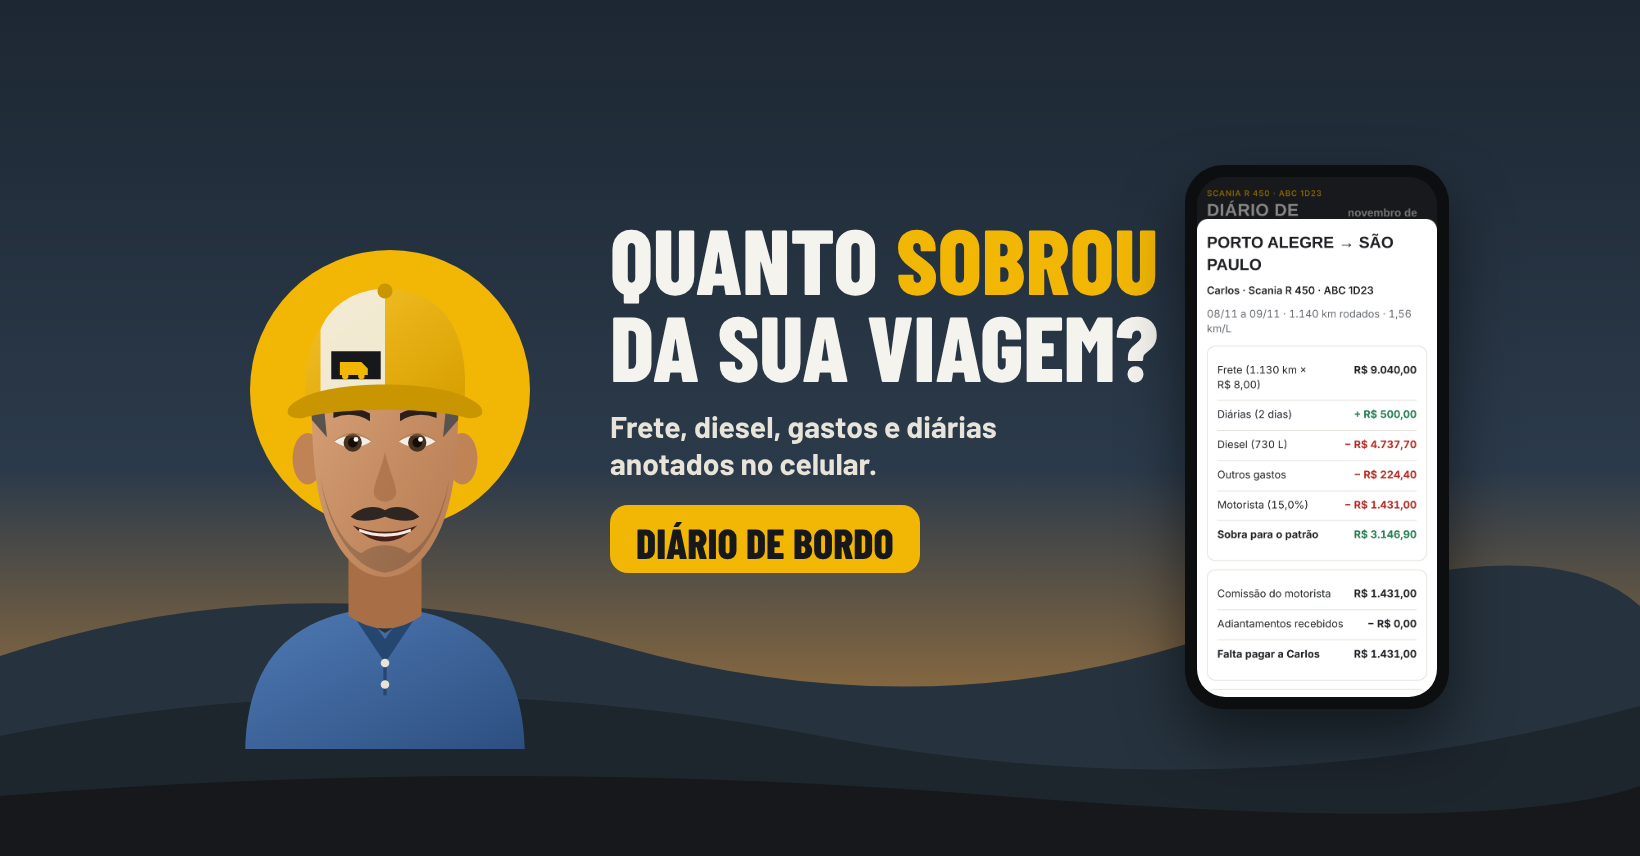
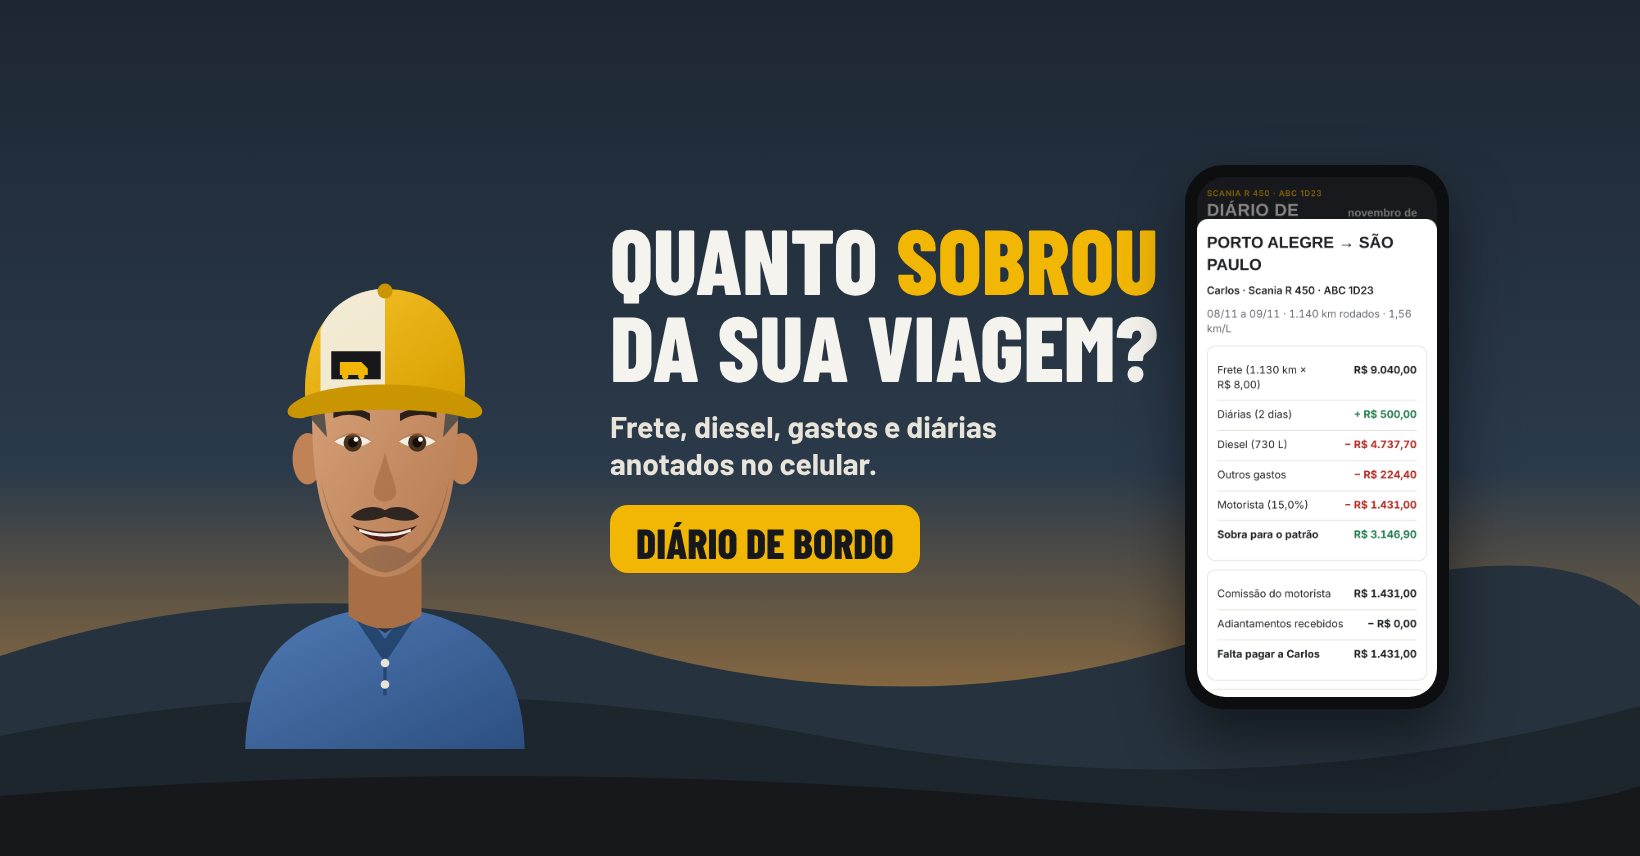
Capa Facebook: sem o sol atras do Ze
Claude-Session: https://claude.ai/code/session_01NoyFaCbiHNtNtFnmVnZDak

Changed region(s): [[0.1555, 0.2734, 0.3421, 0.6075]]

diff --git a/marketing/instagram/capa-facebook/index.html b/marketing/instagram/capa-facebook/index.html
@@ -15,7 +15,7 @@ html,body{margin:0}
 .ph{position:absolute;left:1185px;top:165px;width:240px;height:520px;border-radius:38px;background:#0d0e10;padding:12px;box-shadow:0 30px 60px rgba(0,0,0,.5)}
 .ph img{width:100%;height:100%;object-fit:cover;object-position:top;border-radius:28px}
 </style></head><body><div id="c">
-<div class="sky"></div><div class="sun"></div>
+<div class="sky"></div>
 <svg class="hills" viewBox="0 0 1640 420" preserveAspectRatio="none"><path d="M0 220 Q300 120 620 210 T1240 190 T1640 170 V420 H0Z" fill="#26323d"/><path d="M0 300 Q400 220 820 300 T1640 270 V420 H0Z" fill="#1d252d"/><path d="M0 360 Q500 320 1000 360 T1640 350 V420 H0Z" fill="#16181b"/></svg>
 <div id="ze"><svg id="zesvg" viewBox="0 0 400 520" xmlns="http://www.w3.org/2000/svg">
 <defs>

diff --git a/marketing/instagram/capa-facebook/build.py b/marketing/instagram/capa-facebook/build.py
@@ -18,7 +18,7 @@ html,body{{margin:0}}
 .ph{{position:absolute;left:1185px;top:165px;width:240px;height:520px;border-radius:38px;background:#0d0e10;padding:12px;box-shadow:0 30px 60px rgba(0,0,0,.5)}}
 .ph img{{width:100%;height:100%;object-fit:cover;object-position:top;border-radius:28px}}
 </style></head><body><div id="c">
-<div class="sky"></div><div class="sun"></div>
+<div class="sky"></div>
 <svg class="hills" viewBox="0 0 1640 420" preserveAspectRatio="none"><path d="M0 220 Q300 120 620 210 T1240 190 T1640 170 V420 H0Z" fill="#26323d"/><path d="M0 300 Q400 220 820 300 T1640 270 V420 H0Z" fill="#1d252d"/><path d="M0 360 Q500 320 1000 360 T1640 350 V420 H0Z" fill="#16181b"/></svg>
 <div id="ze">{z}</div>
 <div class="t"><h1>Quanto <span class="y">sobrou</span><br>da sua viagem?</h1>
